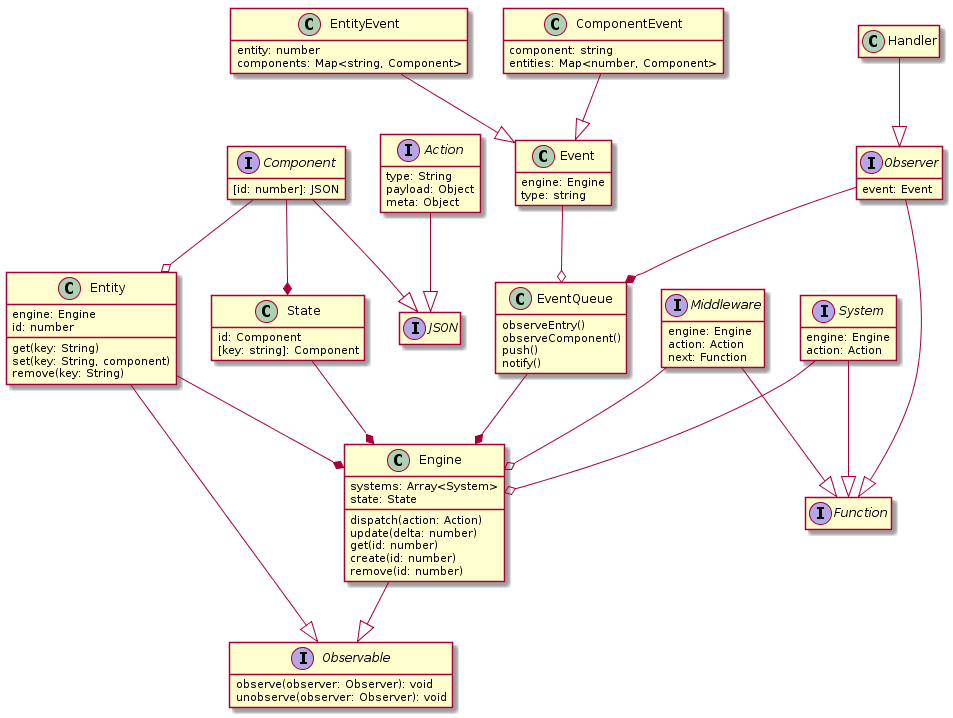
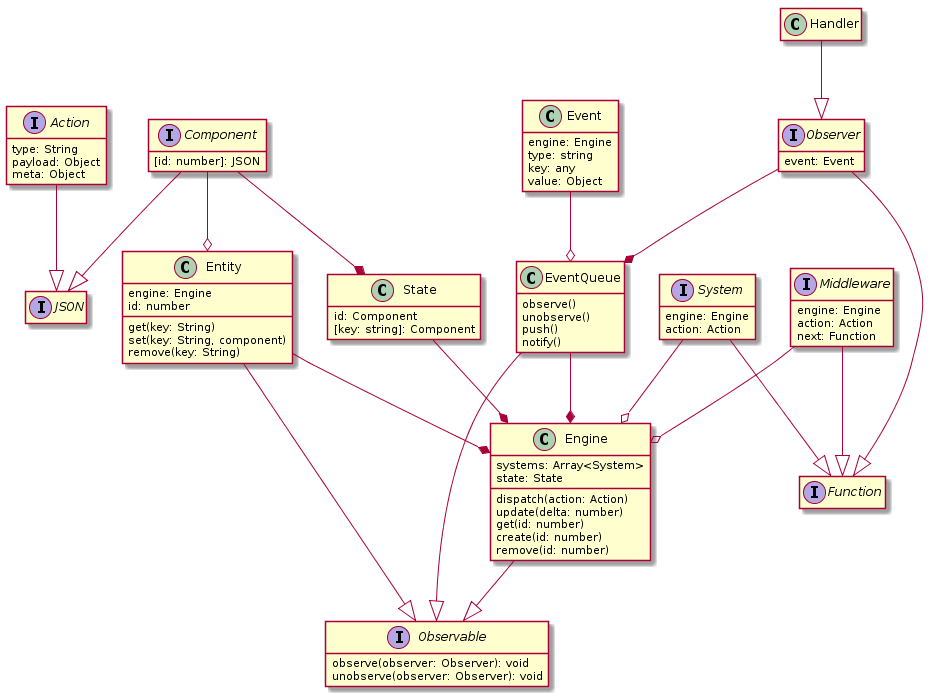
Implement event handling

diff --git a/src/engine.js b/src/engine.js
@@ -1,12 +1,13 @@
 /* @flow */
 
+import Entity from './entity';
 import EventQueue from './eventQueue';
 
 const INIT = '@@engine/init';
 const UPDATE = '@@engine/update';
 
-type ComponentHolder = { [key: Number]: any };
-type State = { id: ComponentHolder, [key: String]: ComponentHolder };
+type ComponentHolder = { [key: number]: any };
+type State = { id: ComponentHolder, [key: string]: ComponentHolder };
 type Action = { type: string, payload?: Object, meta?: Object };
 type Middleware = ((engine: Engine, action: Action, next: Function) => any);
 type System = ((engine: Engine, action: Action) => any);
@@ -43,6 +44,11 @@ export default class Engine {
     this.componentQueue = new EventQueue(this, 'component');
     // Set up the state.
     //
+    // First, check if 'id' component is occupied; This component is reserved
+    // for ID checking.
+    if (components.indexOf('id') !== -1) {
+      throw new Error(`'id' component is reserved by the engine`);
+    }
     // If state is provided, Just overwrite current state to it.
     // Although we need to check every component in the components array is
     // present.
@@ -116,18 +122,49 @@ export default class Engine {
       for (let system of this.systems) {
         system(this, action);
       }
-      return action;
     } finally {
-      // Lock the state.
+      // Lock the state even if the running action has failed;
+      // If we don't do this, engine will be locked forever!
       this.unlocked = false;
     }
+    // If running the action was successful, notify the changes to the
+    // observers.
+    this.componentQueue.notify();
+    this.entityQueue.notify();
+    return action;
   }
 
   // An utility function to generate 'update' action.
-  update(delta: number = 0) {
+  update(delta: number = 0): void {
     this.dispatch({
       type: UPDATE,
       payload: { delta }
     });
   }
+
+  get(id: number): Entity {
+
+  }
+
+  create(id: ?number, template: ?Object): Entity {
+
+  }
+
+  remove(id: number | Entity): void {
+
+  }
+
+  notifyChange(entity: number, component: string, previous: any): void {
+    this.componentQueue.push(component, entity, previous);
+    this.entityQueue.push(entity, component, previous);
+  }
+
+  observe(component: string, observer: Function): void {
+    this.componentQueue.observe(component, observer);
+  }
+
+  unobserve(component: string, observer: Function): void {
+    this.componentQueue.unobserve(component, observer);
+  }
+
 }

diff --git a/src/entity.js b/src/entity.js
@@ -50,4 +50,12 @@ export default class Entity {
     // And remove the component.
     delete component[this.id];
   }
+
+  observe(observer: Function): void {
+    this.engine.entityQueue.observe(this.id, observer);
+  }
+
+  unobserve(observer: Function): void {
+    this.engine.entityQueue.unobserve(this.id, observer);
+  }
 }

diff --git a/src/eventQueue.js b/src/eventQueue.js
@@ -63,4 +63,5 @@ export default class EventQueue<K: number | string, V: number | string> {
     // Empty the event queue.
     this.queue.clear();
   }
+
 }
